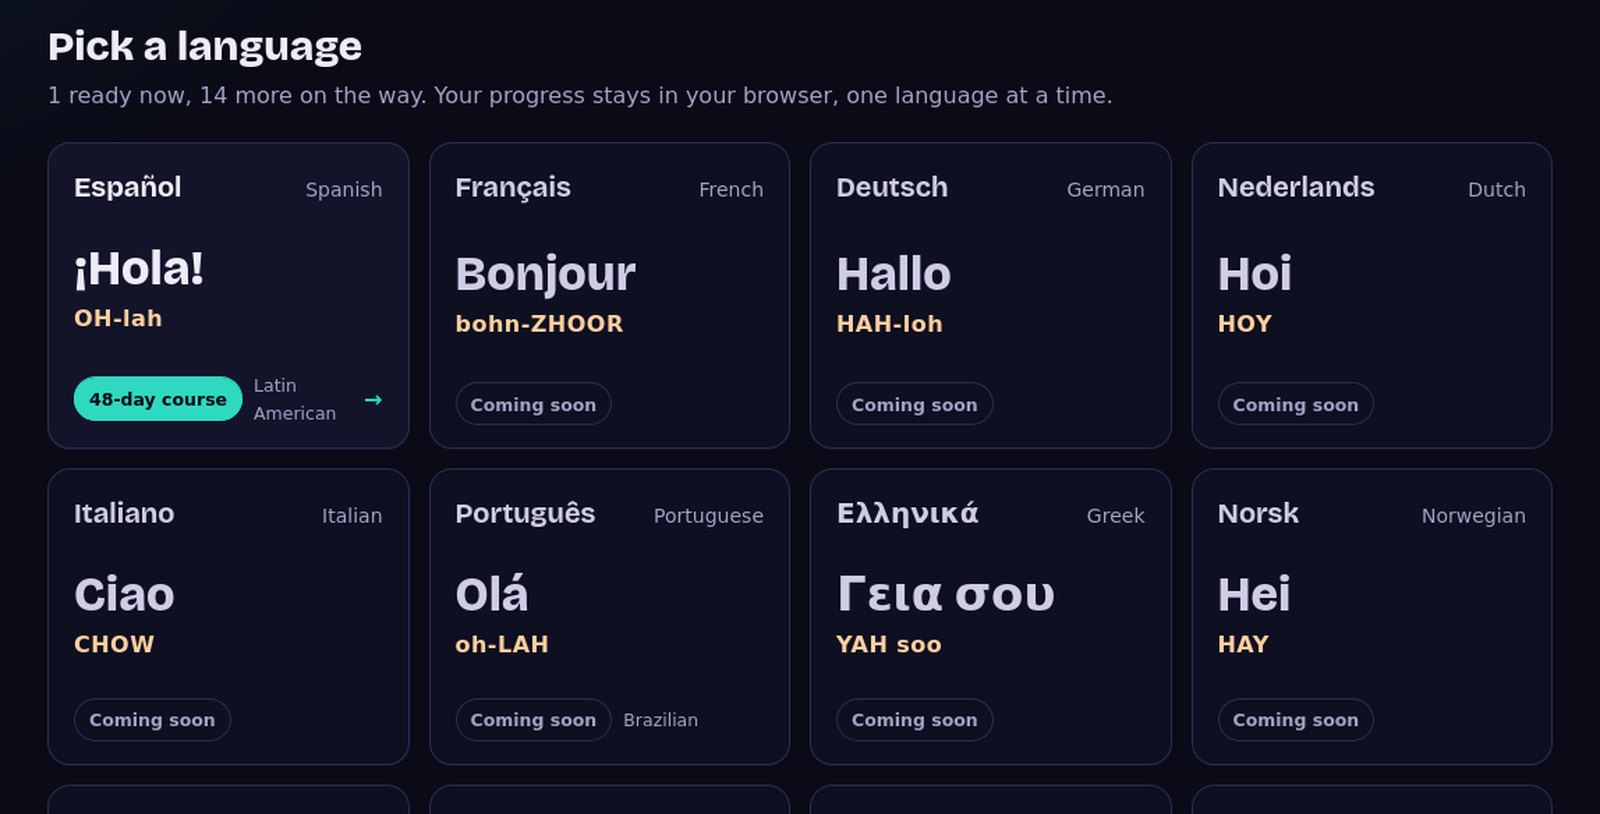
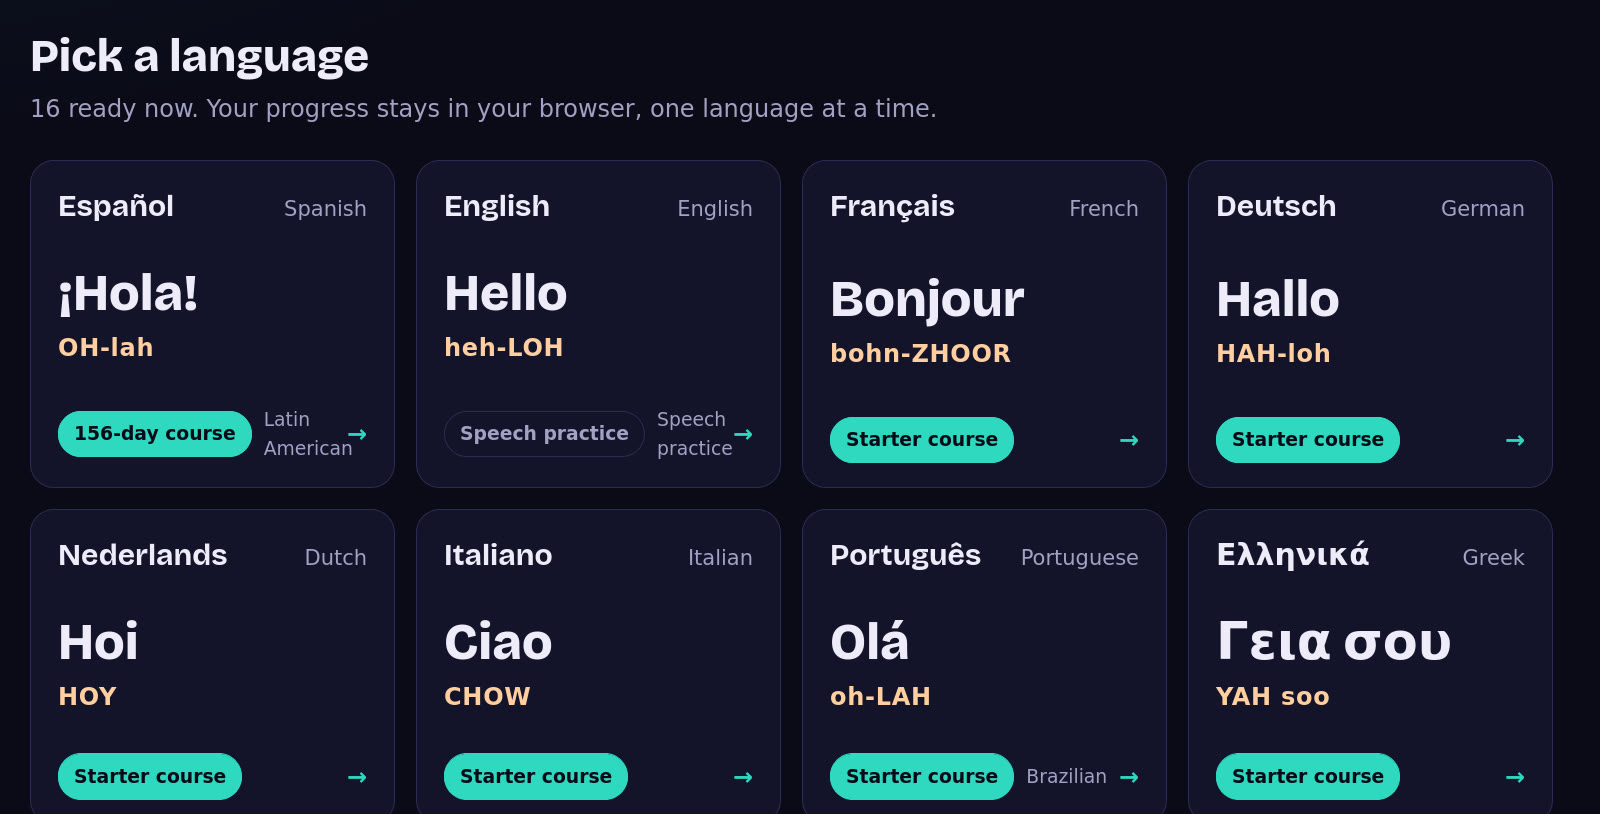
Language Trainer: Spanish is 156 days (A1 and A2), say it with me, and a current cover
The cover showed the picker when only Spanish was live ("48-day course", 14 coming soon); now all 16 ready.

diff --git a/src/content/projects/language-trainer/index.md b/src/content/projects/language-trainer/index.md
@@ -2,11 +2,11 @@
 title: 'Language Trainer: a language teacher in the browser that listens when you speak'
 world: work
 date: 2026-10-06
-summary: "Piano and Guitar Trainer's sibling for languages. You say every word out loud: it shows how each one sounds, waits while you take your time, and coaches the words you miss one at a time. Every course starts very simple and ramps up slowly. Spanish has a full 78-day course with a library of stories; starter courses in fourteen more languages, from French and German to Japanese and Hindi, are live, every language has a patient sound practice for the words you stumble on, and English has a speech practice site of its own."
+summary: "Piano and Guitar Trainer's sibling for languages. You say every word out loud: it shows how each one sounds, waits while you take your time, and coaches the words you miss one at a time. Every course starts very simple and ramps up slowly. Spanish has a full 156-day course, beginner to elementary (A1 and A2), with a library of stories; starter courses in fourteen more languages, from French and German to Japanese and Hindi, are live, every language has a patient sound practice for the words you stumble on, and English has a speech practice site of its own."
 featured: true
 featuredRank: 1
 cover: ./cover.jpg
-coverAlt: "Language Trainer’s language picker: a card for each language with a greeting in its own script and how it sounds, ¡Hola! (OH-lah) with the 78-day course, then Bonjour, Hallo, Hoi, Ciao, Olá, Γεια σου and Hei"
+coverAlt: "Language Trainer’s language picker: 16 ready now, a card for each language with a greeting in its own script and how it sounds: ¡Hola! (OH-lah) with the 156-day course, Hello for speech practice, then Bonjour, Hallo, Hoi, Ciao, Olá and Γεια σου, each a starter course"
 tags: ['language-learning', 'spanish', 'french', 'german', 'japanese', 'korean', 'hindi', 'english', 'speech', 'pronunciation', 'javascript', 'education']
 draft: false
 ---
@@ -15,7 +15,7 @@ draft: false
 
 Language Trainer is the language version of [Piano Trainer](/work/piano-trainer) and [Guitar Trainer](/work/guitar-trainer): a teacher in the browser that hears your answers, keeps you on each exercise until it's right, and helps when it isn't. It needs no account and nothing installed. Pick a language at **[language.jlwhite.ca](https://language.jlwhite.ca)**; each one is a site of its own, such as [spanish.jlwhite.ca](https://spanish.jlwhite.ca), and can also be opened straight from a folder of files, offline (speech recognition is the one part that may need a connection, see below).
 
-It started as Spanish Trainer, and Spanish is still the most complete: a 78-day course and a library of stories, described below. The same app now teaches other languages from the same code, each with a starter course first (see **More languages**).
+It started as Spanish Trainer, and Spanish is still the most complete: a 156-day course in two levels and a library of stories, described below. The same app now teaches other languages from the same code, each with a starter course first (see **More languages**).
 
 The Spanish is Latin American, as it's spoken from Mexico to Argentina: *ustedes* for "you all" and never *vosotros*, *seseo* in the voices, *carro*, *celular* and *computadora*.
 
@@ -33,7 +33,7 @@ There are three ways to answer, and you can switch at any time:
 
 ## The Spanish course
 
-The course is 78 days over thirteen weeks, from saying hello to the preterite and the imperfect, commands, *por* and *para*, and a graduation conversation, about 1,100 words in all. It starts very simple and ramps up slowly, by rule: the first three days teach about eight words each, in sentences of one to three words, with a four-line conversation, no reading yet, and only listening, repeating and saying; building sentences comes in on day 4, typing on day 6, filling gaps on day 10, writing what you hear on day 15, and the past tenses after day 60. The build measures every day of every course against the same ramp, so no course can quietly get harder too soon.
+The course is 156 days over twenty-six weeks, in two levels. The first thirteen weeks (A1) go from saying hello to the preterite and the imperfect, commands, *por* and *para*, about 1,100 words. The next thirteen (A2) add about 1,050 more: telling a story in the past, the present perfect, travel, health, work and study, home life, polite requests with the conditional, restaurants and recipes, childhood, comparing, phone calls and appointments, celebrations and customs, and the future, ending in an A2 check. From A2 on, *say it with me* has you say each sentence along with the voice, as many times as you like, before saying it on your own. It starts very simple and ramps up slowly, by rule: the first three days teach about eight words each, in sentences of one to three words, with a four-line conversation, no reading yet, and only listening, repeating and saying; building sentences comes in on day 4, typing on day 6, filling gaps on day 10, writing what you hear on day 15, and the past tenses after day 60. The build measures every day of every course against the same ramp, so no course can quietly get harder too soon.
 
 ![The course home: level and XP, today’s goal, a button to start day one, and the first two weeks of days, from ¡Hola! and ¿Cómo estás? to Hay and Mi familia y mi casa](./course.jpg)
 
